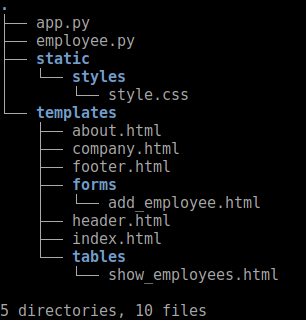
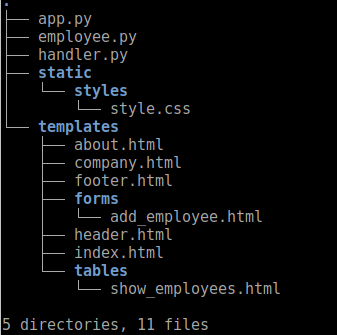
added handler file

Changed region(s): [[0.1176, 0.0312, 0.9118, 0.9062], [0.0588, 0.9375, 0.6765, 1.0], [0.0, 0.0, 0.0882, 1.0]]

diff --git a/content/kunskap/1092_flask-get-post.md b/content/kunskap/1092_flask-get-post.md
@@ -40,14 +40,18 @@ Du har läst artikeln om "[Flask med Jinja2](kunskap/flask-med-jinja2)".
 Struktur {#struktur}
 -------------------------------
 
-Innan vi kommer igång med koden kan det vara bra att tänka igenom vad det är man vill åstadkomma. Det minskar risken att hamna snett och behöva kasta kod och göra om. Målet är en sida som kan lägga till en person, en *employee*, i en lista, som i sin tur visas upp i en tabell. Tabellen ska uppdateras automatiskt och vi blandar inte in någon databas, utan vi lämnar koden med några personer hårdkodade. Till detta skapar vi en klass, `Employee`. Vi ska hantera GET och POST i routen och agera korrekt beroende hur vi skickar en request till routen. När vi klickar på länken i navbaren görs ett GET-request och när vi postar formuläret kan vi använda POST. Vi kan med fördel i detta fallet använda samma route, kallad "company" i artikeln.
+Innan vi kommer igång med koden kan det vara bra att tänka igenom vad det är man vill åstadkomma. Det minskar risken att hamna snett och behöva kasta kod och göra om. Målet är en sida som kan lägga till en person, en *employee*, i en lista, som i sin tur visas upp i en tabell. Tabellen ska uppdateras automatiskt och vi blandar inte in någon databas, utan vi lämnar koden med några personer hårdkodade. Till detta skapar vi en klass, `Employee`. Vi ska hantera GET och POST i routen och agera korrekt beroende hur vi skickar en request till routen. När vi klickar på länken i navbaren görs ett GET-request och när vi postar formuläret kan vi använda POST. Vi kan med fördel i detta fallet använda samma route, kallad "company" i artikeln. Vi vill även undvika lösa funktioner i app.py så vi skapar en fil, *handler*, som får sköta mappningen mellan app.py och klassen.
 
 En vattentät plan är på plats så vi börjar kika på koden.
 
-Klassen Employee {#klassen-emplyee}
+
+
+Filerna {#filerna}
 -------------------------------
 
-Nu tar vi en titt på hur klassen ser ut.
+###employee.py {#emplyee-py}
+
+Nu tar vi en titt på hur klassen Employee ser ut.
 
 ```python
 #!/usr/bin/env python3
@@ -91,9 +95,6 @@ class Employee():
 
 
 
-Formulär och tabell {#formular-och-tabell}
--------------------------------
-
 ###company.html {#company.html}
 
 Börja med att lägga till ett menyval i navbaren för `company.html`, samt en route som returnerar rätt sida. Vi ska utnyttja Jinja2's funktionalitet för att hantera mallar och skapa mallar, *templates*, för tabellen och formuläret. Som du såg i början av artikeln så har vi mapparna templates/forms och templates/tables. Kika sedan på company.html:
@@ -121,7 +122,7 @@ När vi kallar på `{% include ... %}` letar Jinja2 automatiskt i mappen templat
 
 
 
-###Mallen för formuläret {#mall-formular}
+###templates/forms {#templates-forms}
 
 Mallen för formuläret, templates/forms/add_employee.html, ser ut på följande sätt:
 
@@ -157,17 +158,49 @@ def company():
     """ Company route """
 
     if request.method == "POST":
-        temp_employee = Employee(request.form["firstname"], request.form["lastname"], request.form["salary"])
-        persons.append(temp_employee)
+        handler.addEmployee(request.form)
 
-    return render_template("company.html", persons=persons)
+    return render_template("company.html", persons=handler.get_persons())
 ```
 
-Här talar vi om att det är helt i sin ordning att ta sig hit via både POST och GET. Med modulen `request` kan vi se hur användaren har tagit sig in i routen med `request.method`. Om requesten är GET behöver vi inte göra något, då ska bara sidan renderas. Om det däremot är POST betyder det att det är formuläret som skickats och det behöver vi ta hand om. Tidigare nämndes att det är formulärets attribut `name` som används och det når vi via request.form["attribut"]. Sedan skapar vi en instans av den klassen och lägger i listan `persons`. Listan är skapad ovanför alla routes med några hårdkodade instanser. Sist så skickar vi med listan till company.html och låter tabellen ta hand om den för utskrift.
+Här talar vi om att det är helt i sin ordning att ta sig hit via både POST och GET. Med modulen `request` kan vi se hur användaren har tagit sig in i routen med `request.method`. Om requesten är GET behöver vi inte göra något, då ska bara sidan renderas. Om det däremot är POST betyder det att det är formuläret som skickats och det behöver vi ta hand om. Här ser vi att routen använder filen *handler*. Den importeras högst upp i app.py och tanken är att den ska vara en form av controller, eller hanterare, mellan klassen och app.py. Sist så skickar vi med listan till company.html och låter tabellen ta hand om den för utskrift.
 
 
 
-###Mallen för tabell {#mallen-for-tabell}
+###handler.py {#handler-py}
+
+```python
+#!/usr/bin/env python3
+"""
+Handler file
+"""
+
+from employee import Employee
+
+persons = []
+
+emil = Employee("Pelle", "Scriptsson", 30000)
+mikael = Employee("Mikael", "Roos", 31000)
+kenneth = Employee("Kenneth", "Lewenhagen", 75000)
+andreas = Employee("Andreas", "Arnesson", 12000)
+
+persons.append(emil)
+persons.append(mikael)
+persons.append(kenneth)
+persons.append(andreas)
+
+def add_employee(form):
+    persons.append(Employee(form["firstname"], form["lastname"], form["salary"]))
+
+def get_persons():
+    return persons
+```
+
+Tidigare nämndes att det är formulärets attribut `name` som används och det når vi via request.form["attribut"]. Vi skickade med formulärets data och tar emot det i funktionen `add_employee()` som *form*. Sedan skapar vi en instans av klassen och lägger i listan `persons` som kan hämtas med funktionen `get_persons()`.
+
+
+
+###templates/tables {#templates-tables}
 
 Vi hoppar in i mappen templates/tables/ och tittar på `show_employees.html`.
 
